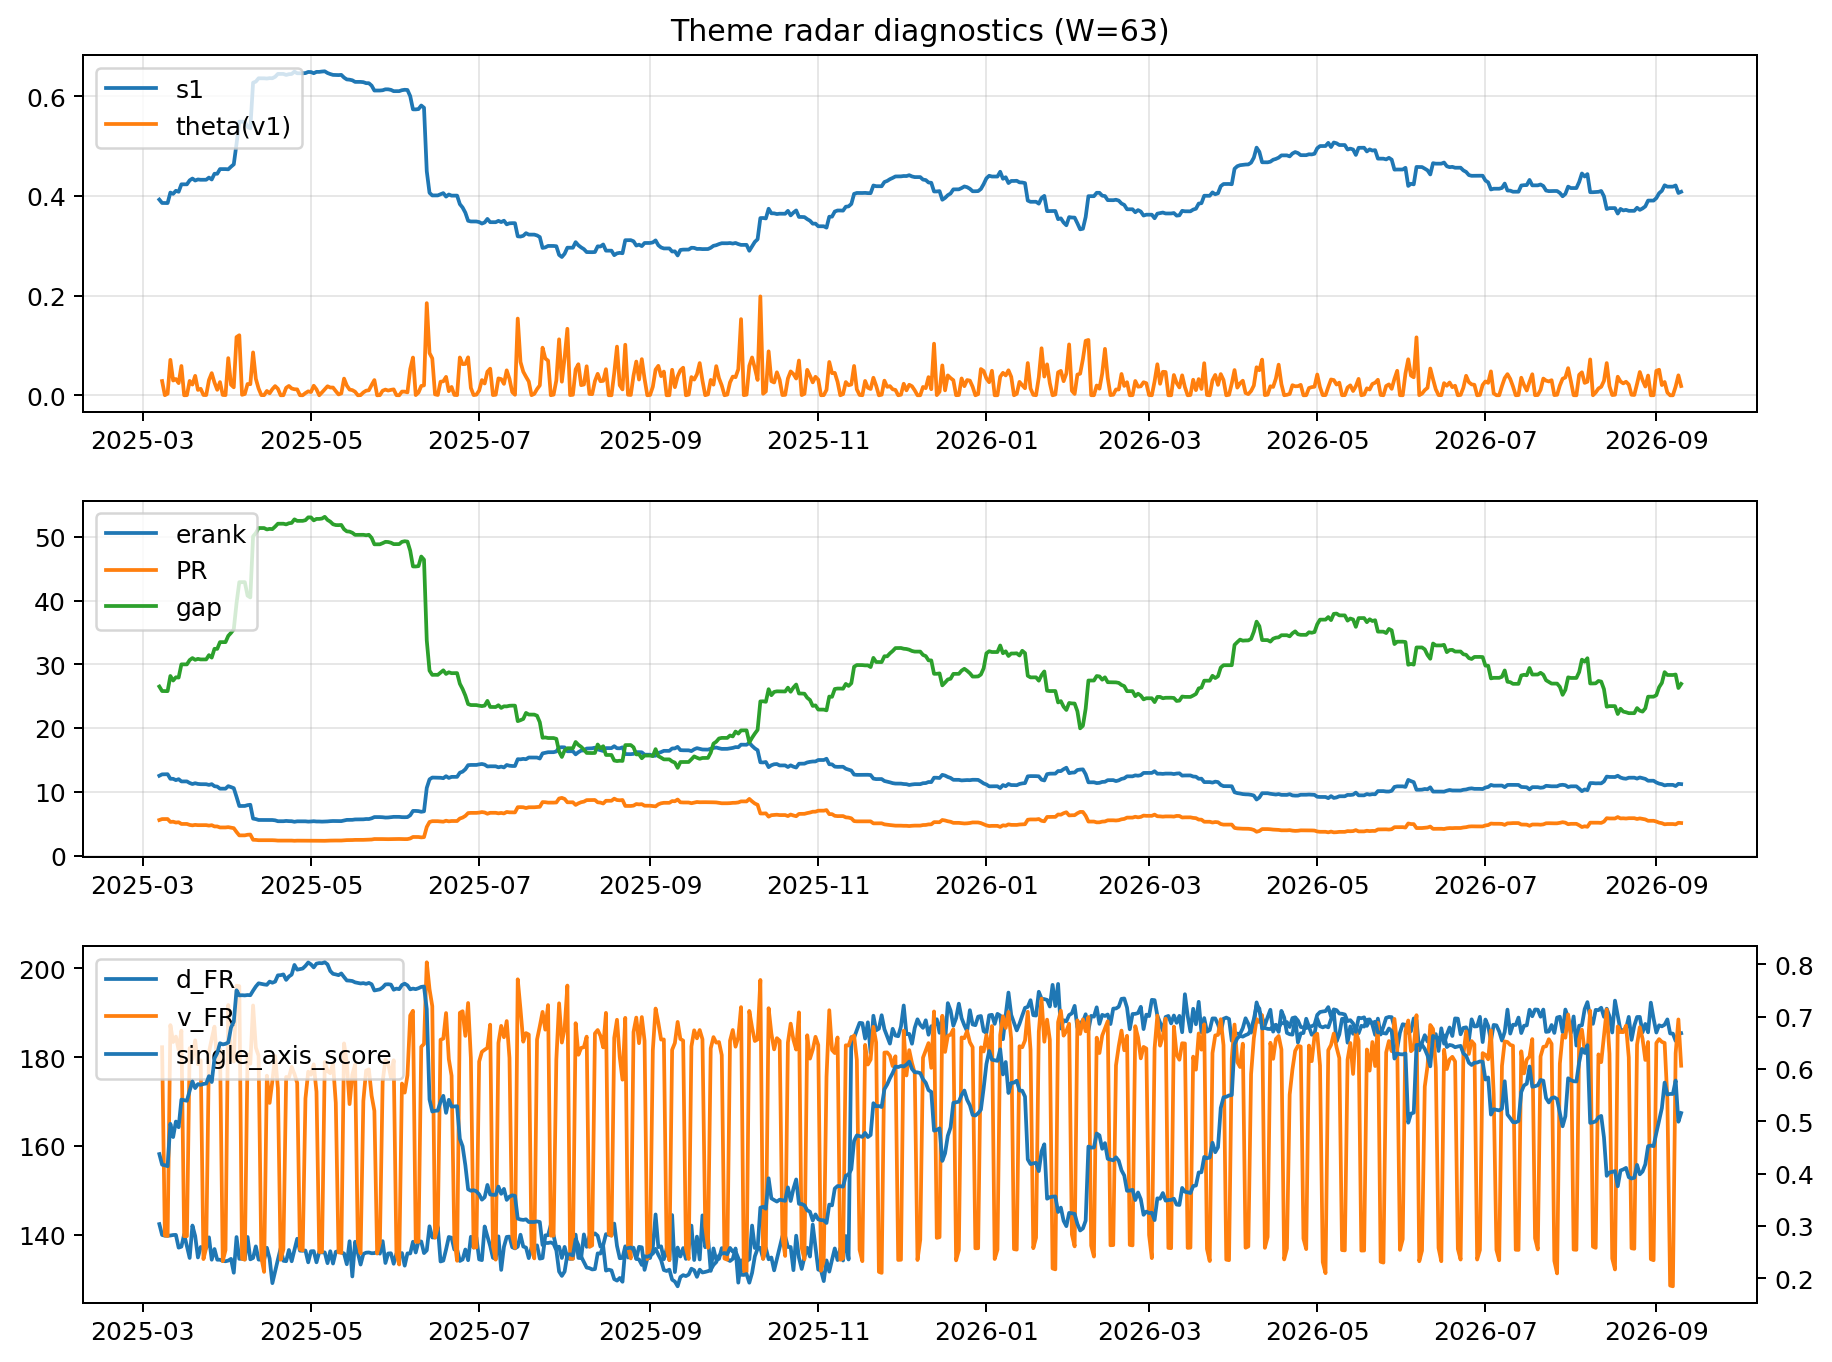
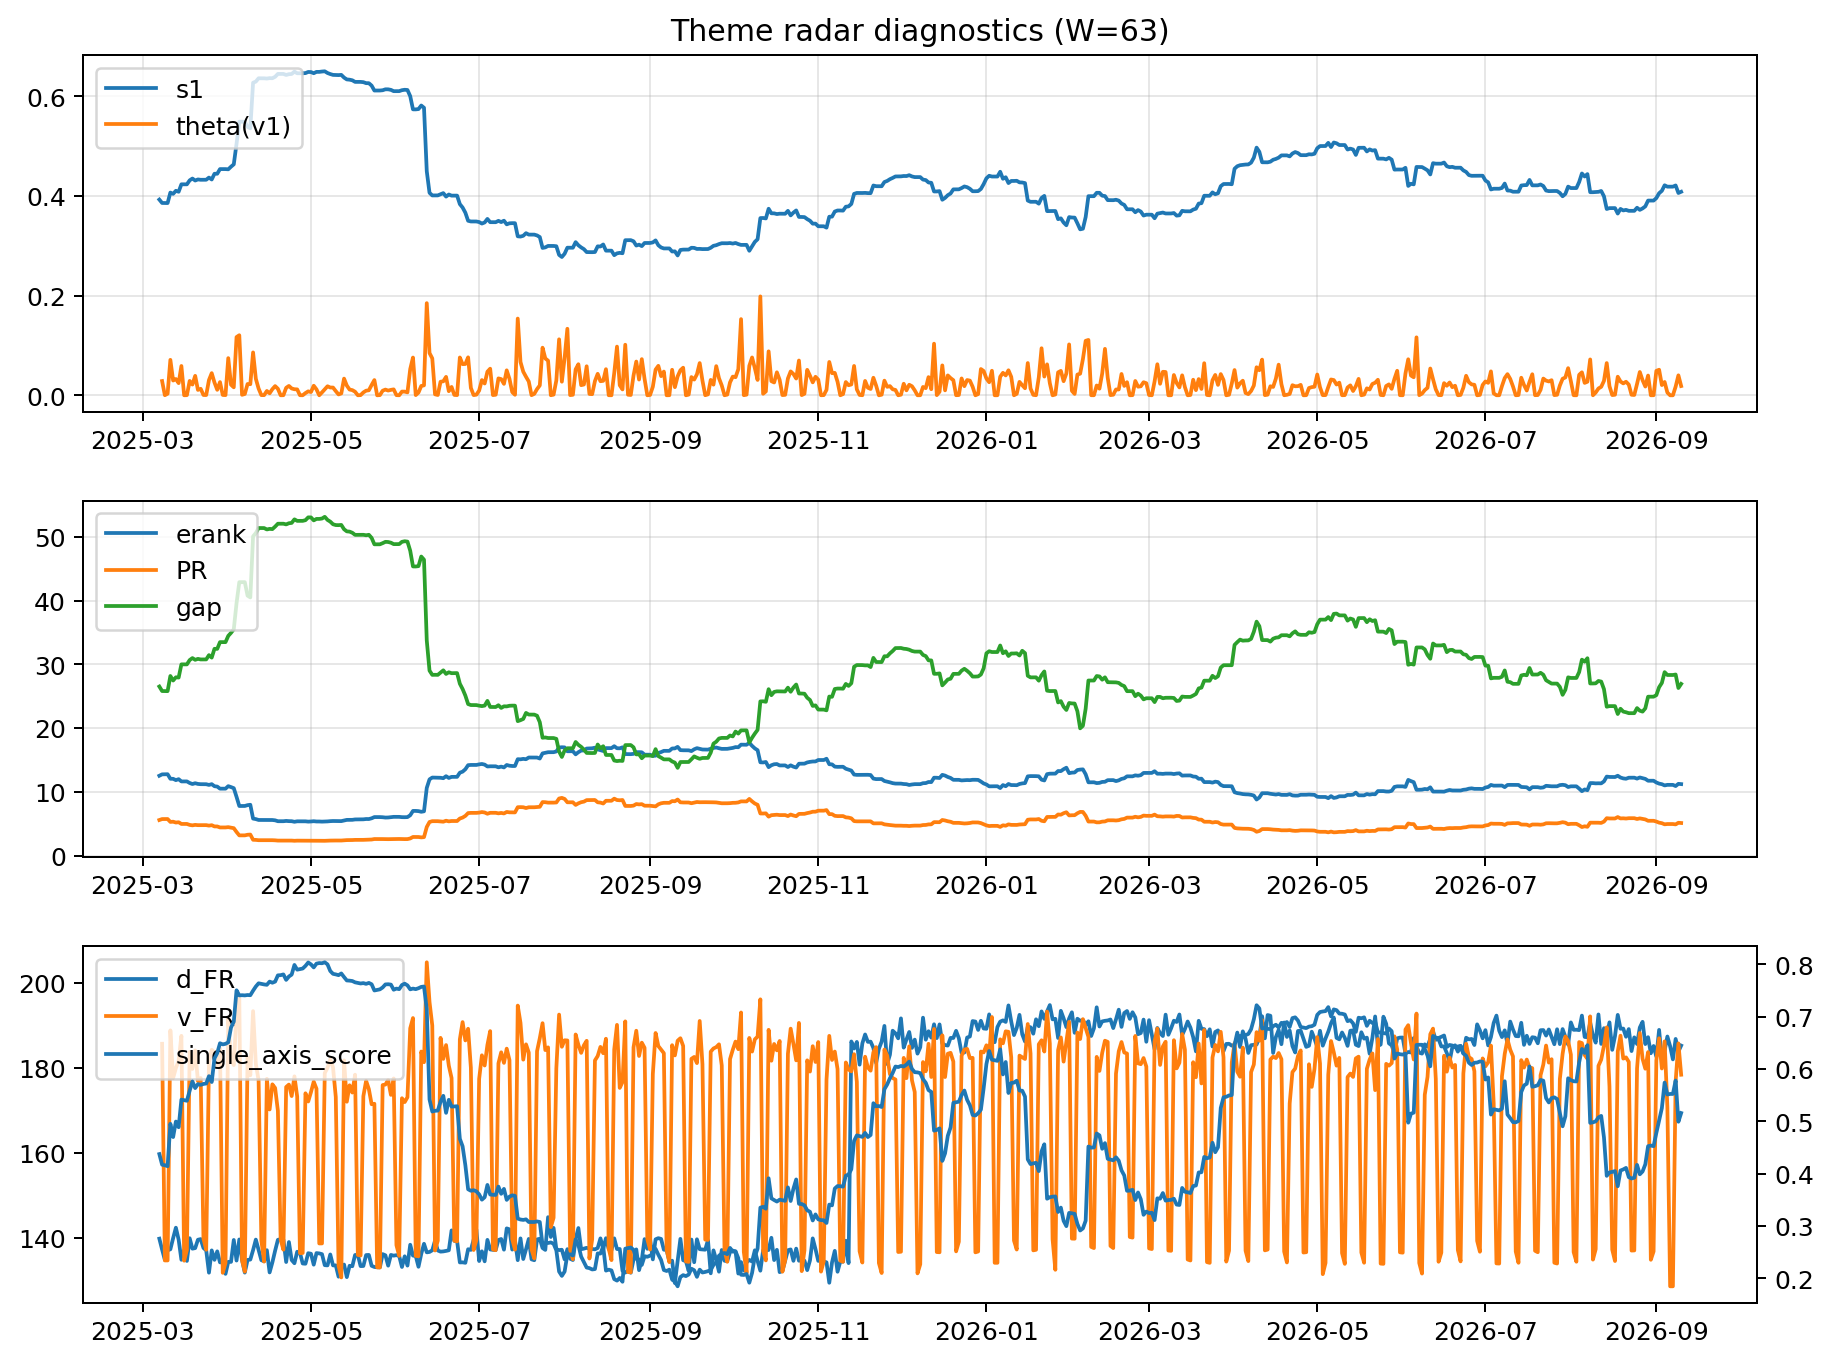
log: 2026-09-10 | sha256:7e0f0ef53302e646990f50e1e3dd57cd3bf77682e40f16e5e8e9ee4253461527

diff --git a/logs/2026-09-10.md b/logs/2026-09-10.md
@@ -3,43 +3,43 @@
 ![diagnostic W63](../assets/diagnostic/2026-09-10_W63.png)
 
 ## Leaders (v1) — W=63
-- **Nuclear_Uranium** (0.0881182733235049)
-- Semis (0.0696654630021973)
-- Quantum (0.063763631522906)
+- **Nuclear_Uranium** (0.088118272102908)
+- Semis (0.0696654613476476)
+- Quantum (0.0637636286549253)
 
 ## Challengers — W=63
-**v2:** Rates (0.0983120157956226), Semis (0.0752769072836701), Grid_Power (0.0597488663906949)
-**v3:** Crypto (0.0922060118235388), Metals (0.0871084878281465), Genomics_Bio (0.081211503707774)
+**v2:** Rates (0.0983121971669268), Semis (0.0752768853274892), Grid_Power (0.0597489172782777)
+**v3:** Crypto (0.0922059484583521), Metals (0.0871084345346648), Genomics_Bio (0.081211427910019)
 
 ## Migration (20D slope) — W=63
 **Top risers:**
-- axis_Rates: 0.0007349638949585
-- axis_DataCenter_Infra: 0.0005064407842636
-- axis_Genomics_Bio: 0.0003824677605834
-- axis_Space: 0.0003542392476529
-- axis_Crypto: 0.0003424767797101
-- axis_Software_Cloud: 0.0002832364519609
-- axis_Commodities: 0.0002222942253692
-- axis_Drones_Autonomy: 0.0001831046333251
-- axis_Metals: 0.0001507208926092
-- axis_Sector_Fin: 0.0001018962417843
+- axis_Rates: 0.0007349672098353
+- axis_DataCenter_Infra: 0.0005064406401717
+- axis_Genomics_Bio: 0.0003824675578132
+- axis_Space: 0.000354238554093
+- axis_Crypto: 0.0003424762704913
+- axis_Software_Cloud: 0.0002832365549968
+- axis_Commodities: 0.0002222944516131
+- axis_Drones_Autonomy: 0.0001831046037145
+- axis_Metals: 0.0001507205573023
+- axis_Sector_Fin: 0.0001018962638001
 
 **Top fallers:**
-- axis_Sector_Health: -0.0001452114940355
-- axis_Quantum: -0.0001527790144317
-- axis_Equity_ExUS: -0.0001572474193681
-- axis_Sector_Utilities: -0.0001870324500556
-- axis_Equity_US: -0.0001877737828181
-- axis_Critical_Minerals: -0.0002698384235297
-- axis_Sector_RealEstate: -0.0002767611992166
-- axis_Nuclear_Uranium: -0.0002936500508875
-- axis_Grid_Power: -0.000304762886573
-- axis_Semis: -0.0004489373701774
+- axis_Sector_Health: -0.0001452113521162
+- axis_Quantum: -0.0001527791766384
+- axis_Equity_ExUS: -0.0001572473385242
+- axis_Sector_Utilities: -0.000187032299819
+- axis_Equity_US: -0.0001877735503816
+- axis_Critical_Minerals: -0.0002698382997246
+- axis_Sector_RealEstate: -0.0002767610705327
+- axis_Nuclear_Uranium: -0.0002936499498649
+- axis_Grid_Power: -0.0003047626210325
+- axis_Semis: -0.0004489371036927
 
 ## Risk line (W=63)
-- s1: 0.4082656390254635
-- theta_v1: 0.0185871069914244
-- v_FR: 178.08044357617203
+- s1: 0.4082657103236222
+- theta_v1: 0.0185871095129982
+- v_FR: 178.36908367049074
 - single_axis_score: 0.5157323688969259
 
 ## Interpretation
@@ -48,7 +48,7 @@
 - Action: Tomorrow watchlist: Rates, DataCenter_Infra, Genomics_Bio, Space, Crypto + v2_top1=Rates
 - Action: Hedge note: normal correlation stability.
 
-- Percentiles (W=63 history): vfr_pct=0.38, theta_pct=0.48, s1_pct=0.49, score_pct=0.50.
+- Percentiles (W=63 history): vfr_pct=0.41, theta_pct=0.48, s1_pct=0.49, score_pct=0.50.
 
 ---
[2 lines of base64/hex data omitted]
